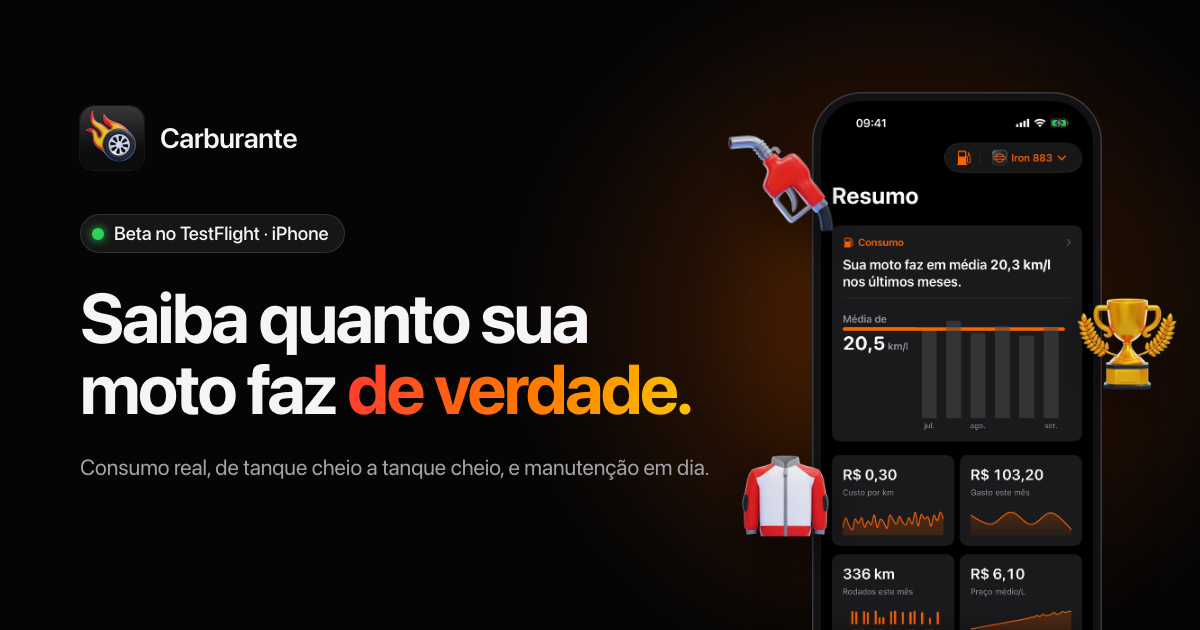
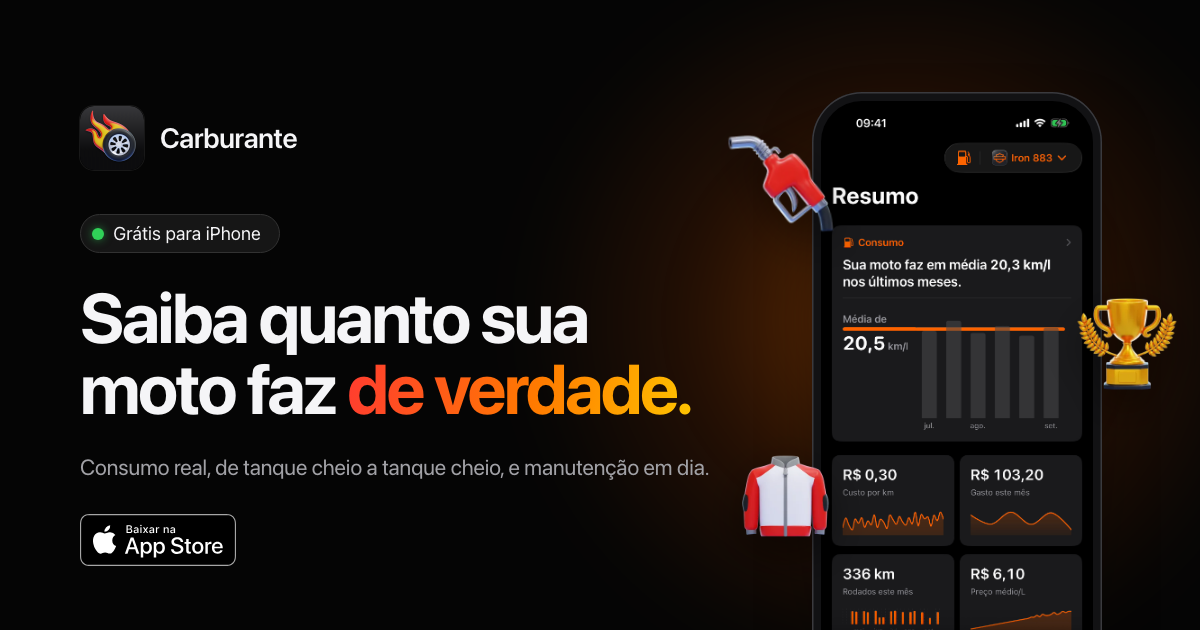
feat(landing): Carburante is on the App Store (#105)
The app is live on the Brazilian App Store, so the page stops asking
people to join the TestFlight beta.

- Official black "Download on the App Store" badge (Apple's SVG, PT/EN
  swapped by the language toggle) in the hero and in Behind the scenes;
  nav, roadmap and the final card keep the flame button, so there is one
  badge per screen as Apple's guidelines ask
- Every TestFlight link now points to the App Store listing; clicks still
  count as generate_lead, with method app_store
- Smart App Banner (apple-itunes-app) for Safari on iPhone
- Copy without beta: meta and OG descriptions, hero line, FAQ (free, pump
  display), roadmap item "Na App Store", final card; new FAQ entry on
  availability outside Brazil
- OG image: official badge under the subtitle, pill reads "Grátis para
  iPhone"
- README points to the App Store instead of the beta

Changed region(s): [[0.0617, 0.8143, 0.185, 0.9048], [0.0925, 0.3619, 0.2775, 0.3921]]

diff --git a/docs/index.html b/docs/index.html
@@ -4,27 +4,28 @@
   <meta charset="utf-8">
   <meta name="viewport" content="width=device-width, initial-scale=1">
   <title>Carburante · Quanto sua moto faz de verdade</title>
-  <meta name="description" content="Registre o abastecimento na parada do posto, veja o consumo real da sua moto, de tanque cheio a tanque cheio, e receba aviso antes da manutenção. App para iPhone em beta.">
+  <meta name="description" content="Registre o abastecimento na parada do posto, veja o consumo real da sua moto, de tanque cheio a tanque cheio, e receba aviso antes da manutenção. App grátis para iPhone, na App Store.">
   <link rel="canonical" href="https://carburante.motorcycles/">
   <meta name="author" content="Wagner Rosa">
   <meta name="publish_date" property="og:publish_date" content="2026-09-27T00:00:00-03:00">
   <meta name="theme-color" content="#050505">
+  <meta name="apple-itunes-app" content="app-id=6785659437">
   <link rel="icon" type="image/png" href="assets/favicon.png">
   <link rel="apple-touch-icon" href="assets/apple-touch-icon.png">
 
   <meta property="og:type" content="website">
   <meta property="og:site_name" content="Carburante">
   <meta property="og:title" content="Carburante · Quanto sua moto faz de verdade">
-  <meta property="og:description" content="Consumo real, de tanque cheio a tanque cheio, e manutenção em dia. App para iPhone em beta no TestFlight.">
+  <meta property="og:description" content="Consumo real, de tanque cheio a tanque cheio, e manutenção em dia. App grátis para iPhone, na App Store.">
   <meta property="og:url" content="https://carburante.motorcycles/">
-  <meta property="og:image" content="https://carburante.motorcycles/assets/og.png?v=3">
+  <meta property="og:image" content="https://carburante.motorcycles/assets/og.png?v=4">
   <meta property="og:image:width" content="1200">
   <meta property="og:image:height" content="630">
   <meta name="twitter:card" content="summary_large_image">
-  <meta name="twitter:image" content="https://carburante.motorcycles/assets/og.png?v=3">
+  <meta name="twitter:image" content="https://carburante.motorcycles/assets/og.png?v=4">
 
   <link rel="preload" as="image" href="assets/clips/hero.webp" type="image/webp" fetchpriority="high">
-  <link rel="stylesheet" href="style.css?v=19">
+  <link rel="stylesheet" href="style.css?v=20">
   <script>document.documentElement.classList.add('js')</script>
 
   <!-- Analytics: GA4 próprio do Carburante (G-JNKWNRL5KE, domínio carburante.motorcycles).
@@ -80,7 +81,7 @@
         <span class="star__label"><span aria-hidden="true">★</span> Star</span>
         <span class="star__count" id="star-count" hidden></span>
       </a>
-      <a class="btn btn--flame btn--nav js-beta" href="https://testflight.apple.com/join/8mcXygWe" target="_blank" rel="noopener" data-i18n="cta.beta">Entrar no beta</a>
+      <a class="btn btn--flame btn--nav js-store" href="https://apps.apple.com/br/app/carburante/id6785659437" target="_blank" rel="noopener" data-i18n="cta.nav">Baixar</a>
     </div>
   </div>
 </header>
@@ -96,10 +97,10 @@
         <h1 data-i18n="hero.title">Saiba quanto sua moto faz <span class="flame-text">de&nbsp;verdade.</span></h1>
         <p class="hero__lede" data-i18n="hero.lede">Registre o abastecimento na parada do posto, até sem sinal. O Carburante mede o consumo de tanque cheio a tanque cheio e avisa antes da próxima manutenção.</p>
         <div class="cta-row">
-          <a class="btn btn--flame btn--live js-beta" href="https://testflight.apple.com/join/8mcXygWe" target="_blank" rel="noopener"><span class="live-dot" aria-hidden="true"></span><span data-i18n="cta.beta">Entrar no beta</span></a>
+          <a class="store-badge js-store" href="https://apps.apple.com/br/app/carburante/id6785659437" target="_blank" rel="noopener" data-i18n="cta.badge"><img src="assets/store/app-store-pt-br.svg" alt="Baixar na App Store" width="144" height="48"></a>
           <a class="btn btn--ghost" href="#consumo" data-i18n="cta.how">Como funciona</a>
         </div>
-        <p class="hero__meta" data-i18n="hero.meta">Grátis durante o beta · iOS 18+ · Em português</p>
+        <p class="hero__meta" data-i18n="hero.meta">Grátis · iOS 18+ · Em português</p>
       </div>
       <div class="hero__visual">
         <div class="glow" aria-hidden="true"></div>
@@ -275,7 +276,7 @@
         <p class="kicker" data-i18n="r.kicker">Roadmap</p>
         <h2 data-i18n="r.title">Hoje, o diário de bordo. No horizonte, o passaporte da sua moto.</h2>
         <blockquote class="quote" data-i18n="r.quote">“A moto leva seus eventos. Você mantém sua história.”</blockquote>
-        <p class="section__lede" data-i18n="r.lede">A ideia é que o histórico pertença à moto, não ao dono: numa venda, manutenções, quilometragem e consumo iriam junto. Nada disso tem data. O que vem depois depende do que o beta mostrar.</p>
+        <p class="section__lede" data-i18n="r.lede">A ideia é que o histórico pertença à moto, não ao dono: numa venda, manutenções, quilometragem e consumo iriam junto. Nada disso tem data. O que vem depois depende do uso de verdade.</p>
       </header>
 
       <!-- Linha contínua = entregue; tracejada = ainda não existe. O último item sai num ramo. -->
@@ -292,13 +293,13 @@
             <a class="tl__link" href="#recursos" data-i18n="r1.link">Ver os recursos</a>
           </li>
           <li class="tl tl--now reveal">
-            <span class="tl__node" aria-hidden="true"><svg viewBox="0 0 24 24"><path d="M10 2v7.5a2 2 0 0 1-.2.9l-5.1 10.1a1 1 0 0 0 .9 1.5h12.8a1 1 0 0 0 .9-1.5l-5.1-10.1a2 2 0 0 1-.2-.9V2M8.5 2h7M7 16h10"/></svg></span>
+            <span class="tl__node" aria-hidden="true"><svg viewBox="0 0 24 24"><path d="M12 3v12M7 10l5 5 5-5M21 15v4a2 2 0 0 1-2 2H5a2 2 0 0 1-2-2v-4"/></svg></span>
             <div class="tl__head">
-              <h3 data-i18n="r2.t">Beta no TestFlight</h3>
+              <h3 data-i18n="r2.t">Na App Store</h3>
               <span class="tl__status" data-i18n="st.now">Agora</span>
             </div>
-            <p data-i18n="r2.d">Motociclistas de verdade usando no dia a dia pelo TestFlight. É aqui que você entra: cada abastecimento registrado ajuda a decidir o próximo passo.</p>
-            <a class="btn btn--flame btn--sm js-beta" href="https://testflight.apple.com/join/8mcXygWe" target="_blank" rel="noopener" data-i18n="cta.beta">Entrar no beta</a>
+            <p data-i18n="r2.d">Disponível na App Store do Brasil. É aqui que você entra: cada abastecimento registrado ajuda a decidir o próximo passo.</p>
+            <a class="btn btn--flame btn--sm js-store" href="https://apps.apple.com/br/app/carburante/id6785659437" target="_blank" rel="noopener" data-i18n="cta.store">Baixar na App Store</a>
           </li>
           <li class="tl reveal">
             <span class="tl__node" aria-hidden="true"><svg viewBox="0 0 24 24"><path d="M4 19.5v-15A2.5 2.5 0 0 1 6.5 2H19a1 1 0 0 1 1 1v18a1 1 0 0 1-1 1H6.5a2.5 2.5 0 0 1 0-5H20M15 13a3 3 0 1 0-6 0"/><circle cx="12" cy="8" r="2"/></svg></span>
@@ -361,6 +362,7 @@
         <h2 data-i18n="s.title">Feito por quem também roda.</h2>
         <p class="section__lede" data-i18n="s.lede">Sou <a href="https://wagnerrosa.com" target="_blank" rel="noopener">Wagner Rosa</a>, product designer e motociclista há mais de duas décadas. Fiz o Carburante por um motivo simples: registrar um abastecimento precisa caber na parada do posto.</p>
         <div class="cta-row">
+          <a class="store-badge js-store" href="https://apps.apple.com/br/app/carburante/id6785659437" target="_blank" rel="noopener" data-i18n="cta.badge"><img src="assets/store/app-store-pt-br.svg" alt="Baixar na App Store" width="144" height="48"></a>
           <a class="btn btn--solid" href="https://github.com/wagnerrosa/carburante" target="_blank" rel="noopener" data-i18n="s.code">Ler o código</a>
         </div>
       </div>
@@ -377,11 +379,15 @@
       <div class="faq__list reveal">
         <details>
           <summary data-i18n="q1.q">É grátis?</summary>
-          <p data-i18n="q1.a">Sim, durante todo o beta. O modelo para a versão da App Store ainda está sendo definido, e quem testou agora vai saber primeiro.</p>
+          <p data-i18n="q1.a">Sim. É grátis na App Store, sem anúncios.</p>
         </details>
         <details>
           <summary data-i18n="q2.q">Tem para Android?</summary>
           <p data-i18n="q2.a">Não por enquanto. O Carburante é nativo de iPhone de propósito: rápido, leve e com a cara do sistema.</p>
+        </details>
+        <details>
+          <summary data-i18n="q9.q">Está disponível fora do Brasil?</summary>
+          <p data-i18n="q9.a">Por enquanto, só na App Store do Brasil, e o app está em português. Outros países e idiomas estão nos planos.</p>
         </details>
         <details>
           <summary data-i18n="q3.q">Preciso criar conta?</summary>
@@ -401,7 +407,7 @@
         </details>
         <details>
           <summary data-i18n="q8.q">Lê o display da bomba?</summary>
-          <p data-i18n="q8.a">Lê, mas no beta ainda não acerta 100%. Reflexo, ângulo e display de segmentos atrapalham. Por isso o app sempre mostra o que leu antes de salvar: você confere e corrige o que precisar. O cupom impresso costuma sair mais preciso.</p>
+          <p data-i18n="q8.a">Lê, mas ainda não acerta 100%. Reflexo, ângulo e display de segmentos atrapalham. Por isso o app sempre mostra o que leu antes de salvar: você confere e corrige o que precisar. O cupom impresso costuma sair mais preciso.</p>
         </details>
         <details>
           <summary data-i18n="q6.q">O código é aberto?</summary>
@@ -411,7 +417,7 @@
     </div>
   </section>
 
-  <!-- BETA -->
+  <!-- BAIXAR (id "beta" mantido: links antigos e analytics) -->
   <section class="section" id="beta" data-ignite>
     <div class="wrap">
       <div class="beta reveal">
@@ -424,10 +430,10 @@
             <video class="beta__vid" muted playsinline loop preload="none" disablepictureinpicture></video>
           </div>
         </div>
-        <h2 data-i18n="bt.title">Teste no seu próximo abastecimento.</h2>
-        <p data-i18n="bt.d">Para quem usa a moto com frequência. Abra o link no iPhone, instale o TestFlight e pronto. Precisa de iOS 18 ou mais recente. Vagas limitadas.</p>
-        <a class="btn btn--flame btn--lg js-beta" href="https://testflight.apple.com/join/8mcXygWe" target="_blank" rel="noopener" data-i18n="cta.beta">Entrar no beta</a>
-        <p class="beta__mail" data-i18n="bt.mail">Dúvidas ou sugestões? <a href="mailto:beta@carburante.motorcycles?subject=Beta%20Carburante">beta@carburante.motorcycles</a></p>
+        <h2 data-i18n="bt.title">Use no seu próximo abastecimento.</h2>
+        <p data-i18n="bt.d">Grátis na App Store do Brasil. Precisa de um iPhone com iOS 18 ou mais recente.</p>
+        <a class="btn btn--flame btn--lg js-store" href="https://apps.apple.com/br/app/carburante/id6785659437" target="_blank" rel="noopener" data-i18n="cta.store">Baixar na App Store</a>
+        <p class="beta__mail" data-i18n="bt.mail">Dúvidas ou sugestões? <a href="mailto:beta@carburante.motorcycles?subject=Carburante">beta@carburante.motorcycles</a></p>
       </div>
     </div>
   </section>
@@ -449,6 +455,6 @@
   </div>
 </footer>
 
-<script src="app.js?v=22"></script>
+<script src="app.js?v=23"></script>
 </body>
 </html>

diff --git a/docs/app.js b/docs/app.js
@@ -11,9 +11,11 @@
     'nav.roadmap': 'Roadmap',
     'hero.title': 'See your bike’s <span class="flame-text">real fuel economy.</span>',
     'hero.lede': 'Log the fuel-up at the pump, even with no signal. Carburante measures consumption from full tank to full tank and warns you before the next service is due.',
-    'cta.beta': 'Join the beta',
+    'cta.store': 'Download on the App Store',
+    'cta.badge': '<img src="assets/store/app-store-en-us.svg" alt="Download on the App Store" width="144" height="48">',
+    'cta.nav': 'Download',
     'cta.how': 'How it works',
-    'hero.meta': 'Free during beta · iOS 18+ · Portuguese UI for now',
+    'hero.meta': 'Free · iOS 18+ · Brazil only, Portuguese UI for now',
     'alt.hero': 'Carburante Summary screen with a Harley-Davidson: 20.3 km/l average, cost per km and monthly spend. The app switches bikes and changes color.',
     'alt.fuel': 'Logging a fuel-up: the odometer photo is read (22,039 km), the pump photo brings cost and liters (R$ 28.49 and 4.135 L) and the review shows 20.1 km/l for this tank',
     'alt.consumption': 'Tank-by-tank consumption chart for the Harley-Davidson, with a 20.3 km/l average and a category comparison',
@@ -56,15 +58,17 @@
     'x3.d': 'Open it and go. No account to create, no password.',
     'x4.t': 'Gentle reminders',
     'x4.d': 'Nudges you about the oil change and reminds you to log if you go quiet.',
-    'bt.title': 'Try it at your next fuel-up.',
-    'bt.d': 'For people who ride often. Open the link on your iPhone, install TestFlight and you’re in. Requires iOS 18 or later; the app is in Portuguese for now. Limited spots.',
-    'bt.mail': 'Questions or ideas? <a href="mailto:beta@carburante.motorcycles?subject=Beta%20Carburante">beta@carburante.motorcycles</a>',
+    'bt.title': 'Use it at your next fuel-up.',
+    'bt.d': 'Free on the Brazilian App Store. Requires an iPhone with iOS 18 or later; the app is in Portuguese for now.',
+    'bt.mail': 'Questions or ideas? <a href="mailto:beta@carburante.motorcycles?subject=Carburante">beta@carburante.motorcycles</a>',
     'q.kicker': 'Questions',
     'q.title': 'Before you ask.',
     'q1.q': 'Is it free?',
-    'q1.a': 'Yes, for the whole beta. The App Store model is still being defined, and beta testers will be the first to know.',
+    'q1.a': 'Yes. It’s free on the App Store, with no ads.',
     'q2.q': 'Is there an Android version?',
     'q2.a': 'Not for now. Carburante is native to iPhone on purpose: fast, light and at home in the system.',
+    'q9.q': 'Is it available outside Brazil?',
+    'q9.a': 'For now it’s only on the Brazilian App Store, and the app is in Portuguese. Other countries and languages are in the plans.',
     'q3.q': 'Do I need an account?',
     'q3.a': 'No. Open it and go: the app works with no account to create and no password.',
     'q4.q': 'Where does my data live?',
@@ -74,7 +78,7 @@
     'q5.q': 'Why doesn’t consumption show on the first fuel-up?',
     'q5.a': 'Because honest consumption is measured between two full tanks: the first one is the starting point. The app tells you how many fuel-ups are left until your first average appears.',
     'q8.q': 'Can it read the pump display?',
-    'q8.a': 'It does, but in the beta it isn’t 100% accurate yet. Glare, angle and segmented displays get in the way. That’s why the app always shows what it read before you save: you check it and fix anything that’s off. Printed receipts tend to come out more accurate.',
+    'q8.a': 'It does, but it isn’t 100% accurate yet. Glare, angle and segmented displays get in the way. That’s why the app always shows what it read before you save: you check it and fix anything that’s off. Printed receipts tend to come out more accurate.',
     'q6.q': 'Is the code open?',
     'q6.a': 'The code is public on GitHub for anyone curious about how the app is built. If you like it, leave a star, it helps a lot.',
     'b.kicker': 'Achievements',
@@ -88,7 +92,7 @@
     'r.kicker': 'Roadmap',
     'r.title': 'Today, a logbook. On the horizon, your bike’s passport.',
     'r.quote': '“The bike carries its events. You keep your story.”',
-    'r.lede': 'The idea is for the history to belong to the motorcycle, not the owner: in a sale, services, mileage and consumption would go with it. None of this has a date. What comes next depends on what the beta shows.',
+    'r.lede': 'The idea is for the history to belong to the motorcycle, not the owner: in a sale, services, mileage and consumption would go with it. None of this has a date. What comes next depends on real-world use.',
     'st.done': 'Shipped',
     'st.now': 'Now',
     'st.planned': 'Planned',
@@ -97,8 +101,8 @@
     'r1.t': 'Logbook',
     'r1.d': 'Fast fuel logging, real consumption, receipt reading, scheduled maintenance, a multi-bike garage, badges and a cloud copy of your records.',
     'r1.link': 'See the features',
-    'r2.t': 'TestFlight beta',
-    'r2.d': 'Real riders using it day to day through TestFlight. This is where you come in: every fuel-up logged helps decide what comes next.',
+    'r2.t': 'On the App Store',
+    'r2.d': 'Available on the Brazilian App Store. This is where you come in: every fuel-up logged helps decide what comes next.',
     'r3.t': 'Digital passport',
     'r3.d': 'The history starts belonging to the bike, keeping the author of each record.',
     'r4.t': 'QR code transfer',
@@ -188,16 +192,16 @@
 
   // Analytics — cliques classificados pelo href, sem data-track no HTML: o i18n troca o
   // innerHTML dos parágrafos, e links internos a eles perderiam atributos. Parâmetros
-  // espelham o site_interaction do portfólio (mesmo formato, propriedade GA4 própria); o pedido de beta
-  // vai como generate_lead para ser marcado como key event.
+  // espelham o site_interaction do portfólio (mesmo formato, propriedade GA4 própria); o clique para a
+  // App Store vai como generate_lead para ser marcado como key event.
   document.addEventListener('click', function (e) {
     var a = e.target.closest ? e.target.closest('a[href]') : null;
     if (!a) return;
     var box = a.closest('footer') ? { id: 'footer' } : a.closest('section[id], header[id]');
     var where = !box ? 'hero' : box.id === 'top' ? 'nav' : box.id;
     var href = a.getAttribute('href');
-    if (a.classList.contains('js-beta')) {
-      track('generate_lead', { method: 'testflight', event_location: where });
+    if (a.classList.contains('js-store')) {
+      track('generate_lead', { method: 'app_store', event_location: where });
     } else if (href === '#consumo') {
       track('site_interaction', { event_category: 'navigation', event_label: 'anchor_how', event_location: where });
     } else if (/github\.com/.test(href)) {

diff --git a/docs/style.css b/docs/style.css
@@ -131,7 +131,7 @@ p { margin: 0; }
 .star__label span { color: #ffc400; }
 .star__count { background: rgba(255, 255, 255, .14); color: #fff; border-radius: 999px; padding: 3px 8px; font-size: 12px; margin-left: -3px; }
 .star__count[hidden] { display: none; }
-/* CTA fixo no nav (.btn--nav, como o "Comprar" da Apple): o beta a um toque em qualquer ponto da
+/* CTA fixo no nav (.btn--nav, como o "Comprar" da Apple): a App Store a um toque em qualquer ponto da
    página. No celular ocupa o lugar da estrela do GitHub, que segue no rodapé e em Bastidores. */
 @media (max-width: 879px) { .star { display: none; } }
 /* Área de toque ≥ 44pt sem mudar o desenho: controles de 30–32px ganham uma borda invisível */
@@ -205,18 +205,13 @@ p { margin: 0; }
 }
 @media (max-width: 719px) { .hero__icon { width: 88px; margin-bottom: 16px; } }
 
-/* CTA do hero com sinal "ao vivo" (o beta está aberto): brasa escura pulsando sobre a chama */
-.btn--live { gap: 10px; padding-left: 20px; }
-.live-dot {
-  position: relative; width: 9px; height: 9px; border-radius: 50%; flex: none;
-  background: radial-gradient(circle at 35% 30%, #ff6a4d, #b01200 70%);
-  box-shadow: 0 0 0 1.5px rgba(255, 255, 255, .55);
-}
-.live-dot::after {
-  content: ""; position: absolute; inset: 0; border-radius: 50%;
-  animation: live-pulse 2s cubic-bezier(.2, .6, .4, 1) infinite;
-}
-@keyframes live-pulse { 0% { box-shadow: 0 0 0 0 rgba(176, 18, 0, .7); } 75%, 100% { box-shadow: 0 0 0 10px rgba(176, 18, 0, 0); } }
+/* Selo oficial da App Store (hero e Bastidores). Regras da Apple: arte intacta (sem hover,
+   sem animar, sem inclinar), altura ≥ 40px, respiro de ¼ da altura (12px = gap da .cta-row),
+   versão preta, idioma da página (o i18n troca o <img>). Nav, roadmap e card final seguem
+   com o botão de chama: um selo por tela. */
+.store-badge { display: inline-flex; align-self: center; border-radius: 9px; }
+.store-badge img { display: block; height: 48px; width: auto; }
+.store-badge:focus-visible { outline: 2px solid var(--accent); outline-offset: 4px; }
 
 .hero h1 { font-size: clamp(42px, 9vw, 80px); font-weight: 700; letter-spacing: -.035em; line-height: 1.02; margin: 22px 0 22px; }
 .flame-text { background: var(--flame); -webkit-background-clip: text; background-clip: text; color: transparent; }
@@ -723,7 +718,7 @@ p { margin: 0; }
 .js .reveal.in { opacity: 1; transform: none; }
 @media (prefers-reduced-motion: reduce) {
   .js .reveal { opacity: 1; transform: none; transition: none; }
-  .float, .live-dot::after, .tl--now .tl__node { animation: none; }
+  .float, .tl--now .tl__node { animation: none; }
   .story__stage, .story__rider, .story__visual .float, .tl__art img, .footer__moto { transition: none; }
   .story__flash { display: none; }
   #beta .wrap::before, .beta__wheel, .beta__wheel::before, .beta__body { transition: none; }

diff --git a/README.md b/README.md
@@ -24,11 +24,9 @@ iOS 18+ · SwiftUI · SwiftData · Supabase
 - **Conquistas e níveis** — 25 medalhas com pontos por dificuldade.
 - **Sync opcional** — funciona 100% offline; com Sign in with Apple os dados acompanham você entre dispositivos.
 
-## Entrar no beta (TestFlight)
+## Baixar
 
-O app está em TestFlight. Quer testar? Mande um email para **contato@wagnerrosa.com** com o assunto *"Beta Carburante"* e eu te adiciono.
-
-> Em breve um link público de inscrição aparece aqui, dispensando o email.
+[**Carburante na App Store**](https://apps.apple.com/br/app/carburante/id6785659437) — grátis, iPhone com iOS 18 ou mais recente. Por enquanto só na App Store do Brasil, com o app em português.
 
 ---
 
